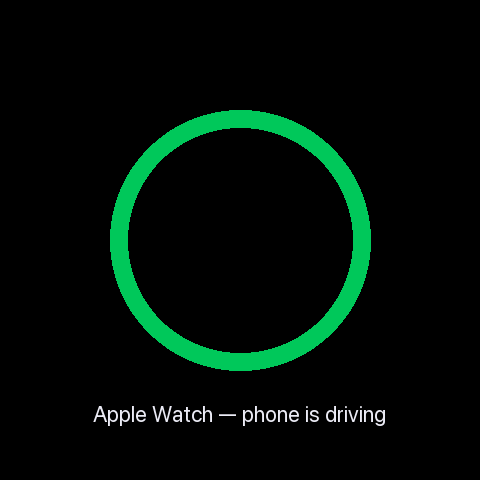
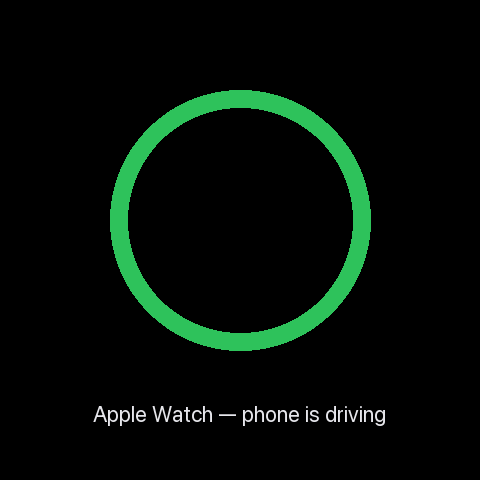
docs: update watch dynamics for Build 883 (B.8.x through B.10)
Substance updates to myloop-watch-dynamics.md:

- New "Lifecycle overview" section with a Mermaid state diagram of the
  handoff state machine (PhoneDriver / HandoffPending / WatchDriver /
  Recovering). Includes notes on command-suppression during transitions
  and post-restart recovery semantics. Both devices run the same code
  (B.10 lifted the handoff stack into a shared module parameterized by
  role).

- Three safety properties now called out: pod-command suppression
  during transition window, crash-mid-handoff always-recover (B.8.2 M3
  simplification), settings stay fresh on the watch via live observer
  (B.8.2 efficiency #4 + Codex Loop #1 closure).

- Warming up section rewritten: skip-warmup fast-path (snapshot
  hydration via per-iteration buffers, ≤7-min freshness gate, B.8.4
  closing Codex Loop #3) vs full warmup safe fallback. Notes the
  iOS↔watch reconciliation test.

- New "Cold-launch while phone is offline" subsection: persisted
  last-good settings (B.8.3) means the watch can bootstrap from disk
  if it has ever previously synced.

- Footer updated to 2026-05-04 / Build 883 with summary of what
  Build 883 brings vs the previous 872 baseline.

Visuals:
- 4 driver-indicator mockups updated to reflect Build 883's loop-ring
  styling (driver-{device}-{phone,watch}-driving.png).

Layout:
- Added Mermaid CDN client-side rendering script to default.html so
  ```mermaid code blocks render diagrams (auto dark/light theme via
[…]

Changed region(s): [[0.2188, 0.1875, 0.7812, 0.7812]]

diff --git a/_layouts/default.html b/_layouts/default.html
@@ -52,5 +52,20 @@
     </p>
     <p>Source: <a href="https://github.com/threecee/threecee.github.io">github.com/threecee/threecee.github.io</a></p>
   </footer>
+
+  <!-- Mermaid: client-side render of ```mermaid code blocks. Auto-detects color scheme. -->
+  <script type="module">
+    import mermaid from 'https://cdn.jsdelivr.net/npm/mermaid@10/dist/mermaid.esm.min.mjs';
+    const dark = window.matchMedia('(prefers-color-scheme: dark)').matches;
+    mermaid.initialize({ startOnLoad: false, theme: dark ? 'dark' : 'default' });
+    document.querySelectorAll('pre > code.language-mermaid').forEach((el, i) => {
+      const wrap = document.createElement('div');
+      wrap.className = 'mermaid';
+      wrap.id = `m${i}`;
+      wrap.textContent = el.textContent;
+      el.parentElement.replaceWith(wrap);
+    });
+    mermaid.run();
+  </script>
 </body>
 </html>

diff --git a/myloop-watch-dynamics.md b/myloop-watch-dynamics.md
@@ -31,8 +31,8 @@ The two states:
 
 Look at the loop status ring on either device:
 
-- **A small white dot in the center of the ring** = "this device is
-  currently driving."
+- **A filled dot in the center of the ring** (same color as the ring
+  itself) = "this device is currently driving."
 - **No dot in the center** = "the other device is driving" (this device
   is the passenger).
 
@@ -89,23 +89,84 @@ to the watch. The bonding-handoff orchestrator in MyLoop ensures only
 one device owns the bond at a time, so the pod never sees conflicting
 commands.
 
+### Lifecycle overview
+
+This is the state machine each device runs. Both phone and watch run
+the same code (the handoff stack is consolidated in a shared module
+parameterized by role); the diagram applies to either.
+
+```mermaid
+stateDiagram-v2
+    direction LR
+    [*] --> PhoneDriver: app launch (default role)
+    PhoneDriver --> HandoffPending: phone offline ≥ 60s\nor user-initiated
+    HandoffPending --> WatchDriver: counterpart confirms\n(< 30s window)
+    HandoffPending --> Recovering: timeout / rejection
+    WatchDriver --> HandoffPending: phone reachable ≥ 60s\n(reverse handoff)
+    Recovering --> PhoneDriver: user dismisses banner\n(if last owner = phone)
+    Recovering --> WatchDriver: user dismisses banner\n(if last owner = watch)
+
+    note right of HandoffPending
+        Both sides suppress
+        pod commands during
+        the transition window
+    end note
+
+    note left of Recovering
+        After app restart, any
+        previously-pending handoff
+        is treated as expired —
+        recovery banner shown
+    end note
+```
+
+Three safety properties baked into the lifecycle:
+
+- **Pod commands are suppressed during the transition window.** Bolus,
+  cancel-bolus, suspend, and resume all return a "try again" error if
+  invoked while a handoff is pending. The previously-driving device
+  resumes normal command authority after the transition completes or
+  recovers.
+- **Crashes mid-handoff always recover safely.** If the app restarts
+  during the sub-second transition window, the persisted state is
+  treated as expired and the user sees a recovery banner instead of an
+  ambiguous mid-flight handoff. Worst case is "user dismisses banner";
+  the system never resumes a half-finished transition.
+- **Settings stay fresh on the watch.** Edits you make on the iPhone
+  (target range, ISF, max bolus, etc.) propagate to the watch within
+  one Loop iteration — about 30 seconds — without forcing a handoff.
+
 ## Warming up: the first few iterations after handoff
 
-When the watch becomes the driver, its Loop history is colder than the
-phone's was. The watch backfills recent glucose from the CGM and recent
-dose events from the pod, but for the first **~30 minutes (about 5
-algorithm iterations)** it operates with a smaller history window.
+When the watch becomes the driver, it needs recent glucose, dose, and
+carb history to compute a Loop iteration. Two paths:
 
-During this window, the watch displays a small **"Loop warming up"**
-badge. While the badge is showing:
+- **Skip-warmup (the fast path).** If the watch has a fresh
+  algorithm-state snapshot from the phone (one is pushed at the end of
+  every phone iteration, ≤ 7 minutes old), the watch hydrates its
+  stores from the snapshot and runs a full Loop iteration immediately.
+  No warmup badge appears.
+- **Full warmup (the safe fallback).** If no fresh snapshot is
+  available — for example, the watch app cold-launched while the
+  phone is offline — the watch displays a **"Loop warming up"** badge
+  for the first few iterations (about 30 minutes) while it backfills
+  recent glucose from the CGM and recent dose events from the pod.
+
+While the warmup badge is showing:
 
 - The algorithm is running, but on conservative defaults.
 - Closed-loop dosing decisions are smaller / more cautious than they
   would be with full history.
 - Glucose alerts fire normally.
 
-After the warm-up window completes, the badge clears and the watch
-operates with a full algorithm context.
+After the warm-up window completes (or the snapshot fast-path succeeds),
+the badge clears and the watch operates with full algorithm context.
+
+A **runtime equivalence test** (`LoopAlgorithmReconciliationTests`)
+verifies that the watch's Loop computation produces byte-identical
+output to the iPhone's for the same input — across steady-state,
+post-meal-carb, and predicted-hypo scenarios. This catches any future
+drift between the two consumers of the shared algorithm code.
 
 ## What happens when phone + watch are separated
 
@@ -120,6 +181,21 @@ While you're separated:
 - Dosing decisions continue, computed on the watch.
 - Alerts fire on your wrist.
 - The phone may show "watch is currently driving" if you check it.
+
+### Cold-launch while phone is offline
+
+If you reboot or relaunch the watch app while your phone is unreachable,
+the watch can still bootstrap the Loop driver. The most recent settings
+sync from the phone is persisted to a shared App Group container on the
+watch, so the watch reconstructs its therapy parameters (ISF, CR,
+target range, max basal/bolus, suspend threshold) from disk without
+needing a fresh handshake. If you've been using the system for a while
+and the watch has ever been synced, this works even when the phone is
+across the house, dead, or in the next room.
+
+The only case where bootstrap fails is "the watch has never received a
+single settings sync" — e.g., a fresh install with the phone offline.
+In that case the watch waits with the warmup badge until a sync arrives.
 
 ## Reverting to phone-driving
 
@@ -161,10 +237,20 @@ mode after the phone has clearly gone out of range:
   is pending Apple approval; for now use Focus exemptions or rely on
   the watch's haptic alerts.
 
-_Last updated: 2026-05-02_
+_Last updated: 2026-05-04 — Build 883 (covers B.8.1 through B.10)._
 
-_Watch behavior verified on hardware: pending. Auto-revert from watch
-back to phone (Reverting to phone-driving section above) shipped in
-Build 860 — earlier builds had the path stubbed out and the watch held
-the driver role until manual user action. Update this footer when
-verified on real devices._
+_Watch behavior verified on hardware: pending consolidated HV-1
+session. The handoff lifecycle described above applies to Build 883
+(uploaded 2026-05-04). Build 883 includes: live `LoopSettings` observer
++ dedup; persisted last-good settings; snapshot-driven skip-warmup
+(real algorithm-state hydration via per-iteration buffers);
+file-pointer fallback for oversized snapshot payloads;
+`commandsAllowedCheck` gate on resume/suspend/cancel-bolus during
+handoff transitions; M3 always-recover after restart; iOS↔watch
+algorithm reconciliation test (3 fixtures, byte-identical assertion);
+consolidated handoff stack (single shared module, both phone and watch
+run the same code parameterized by role)._
+
+_Earlier shipped behavior: B.7 driver indicator (Build 872), B.8 watch
+warmup elimination via algorithm-state snapshots (Build 872). Auto-revert
+from watch back to phone shipped in Build 860._
